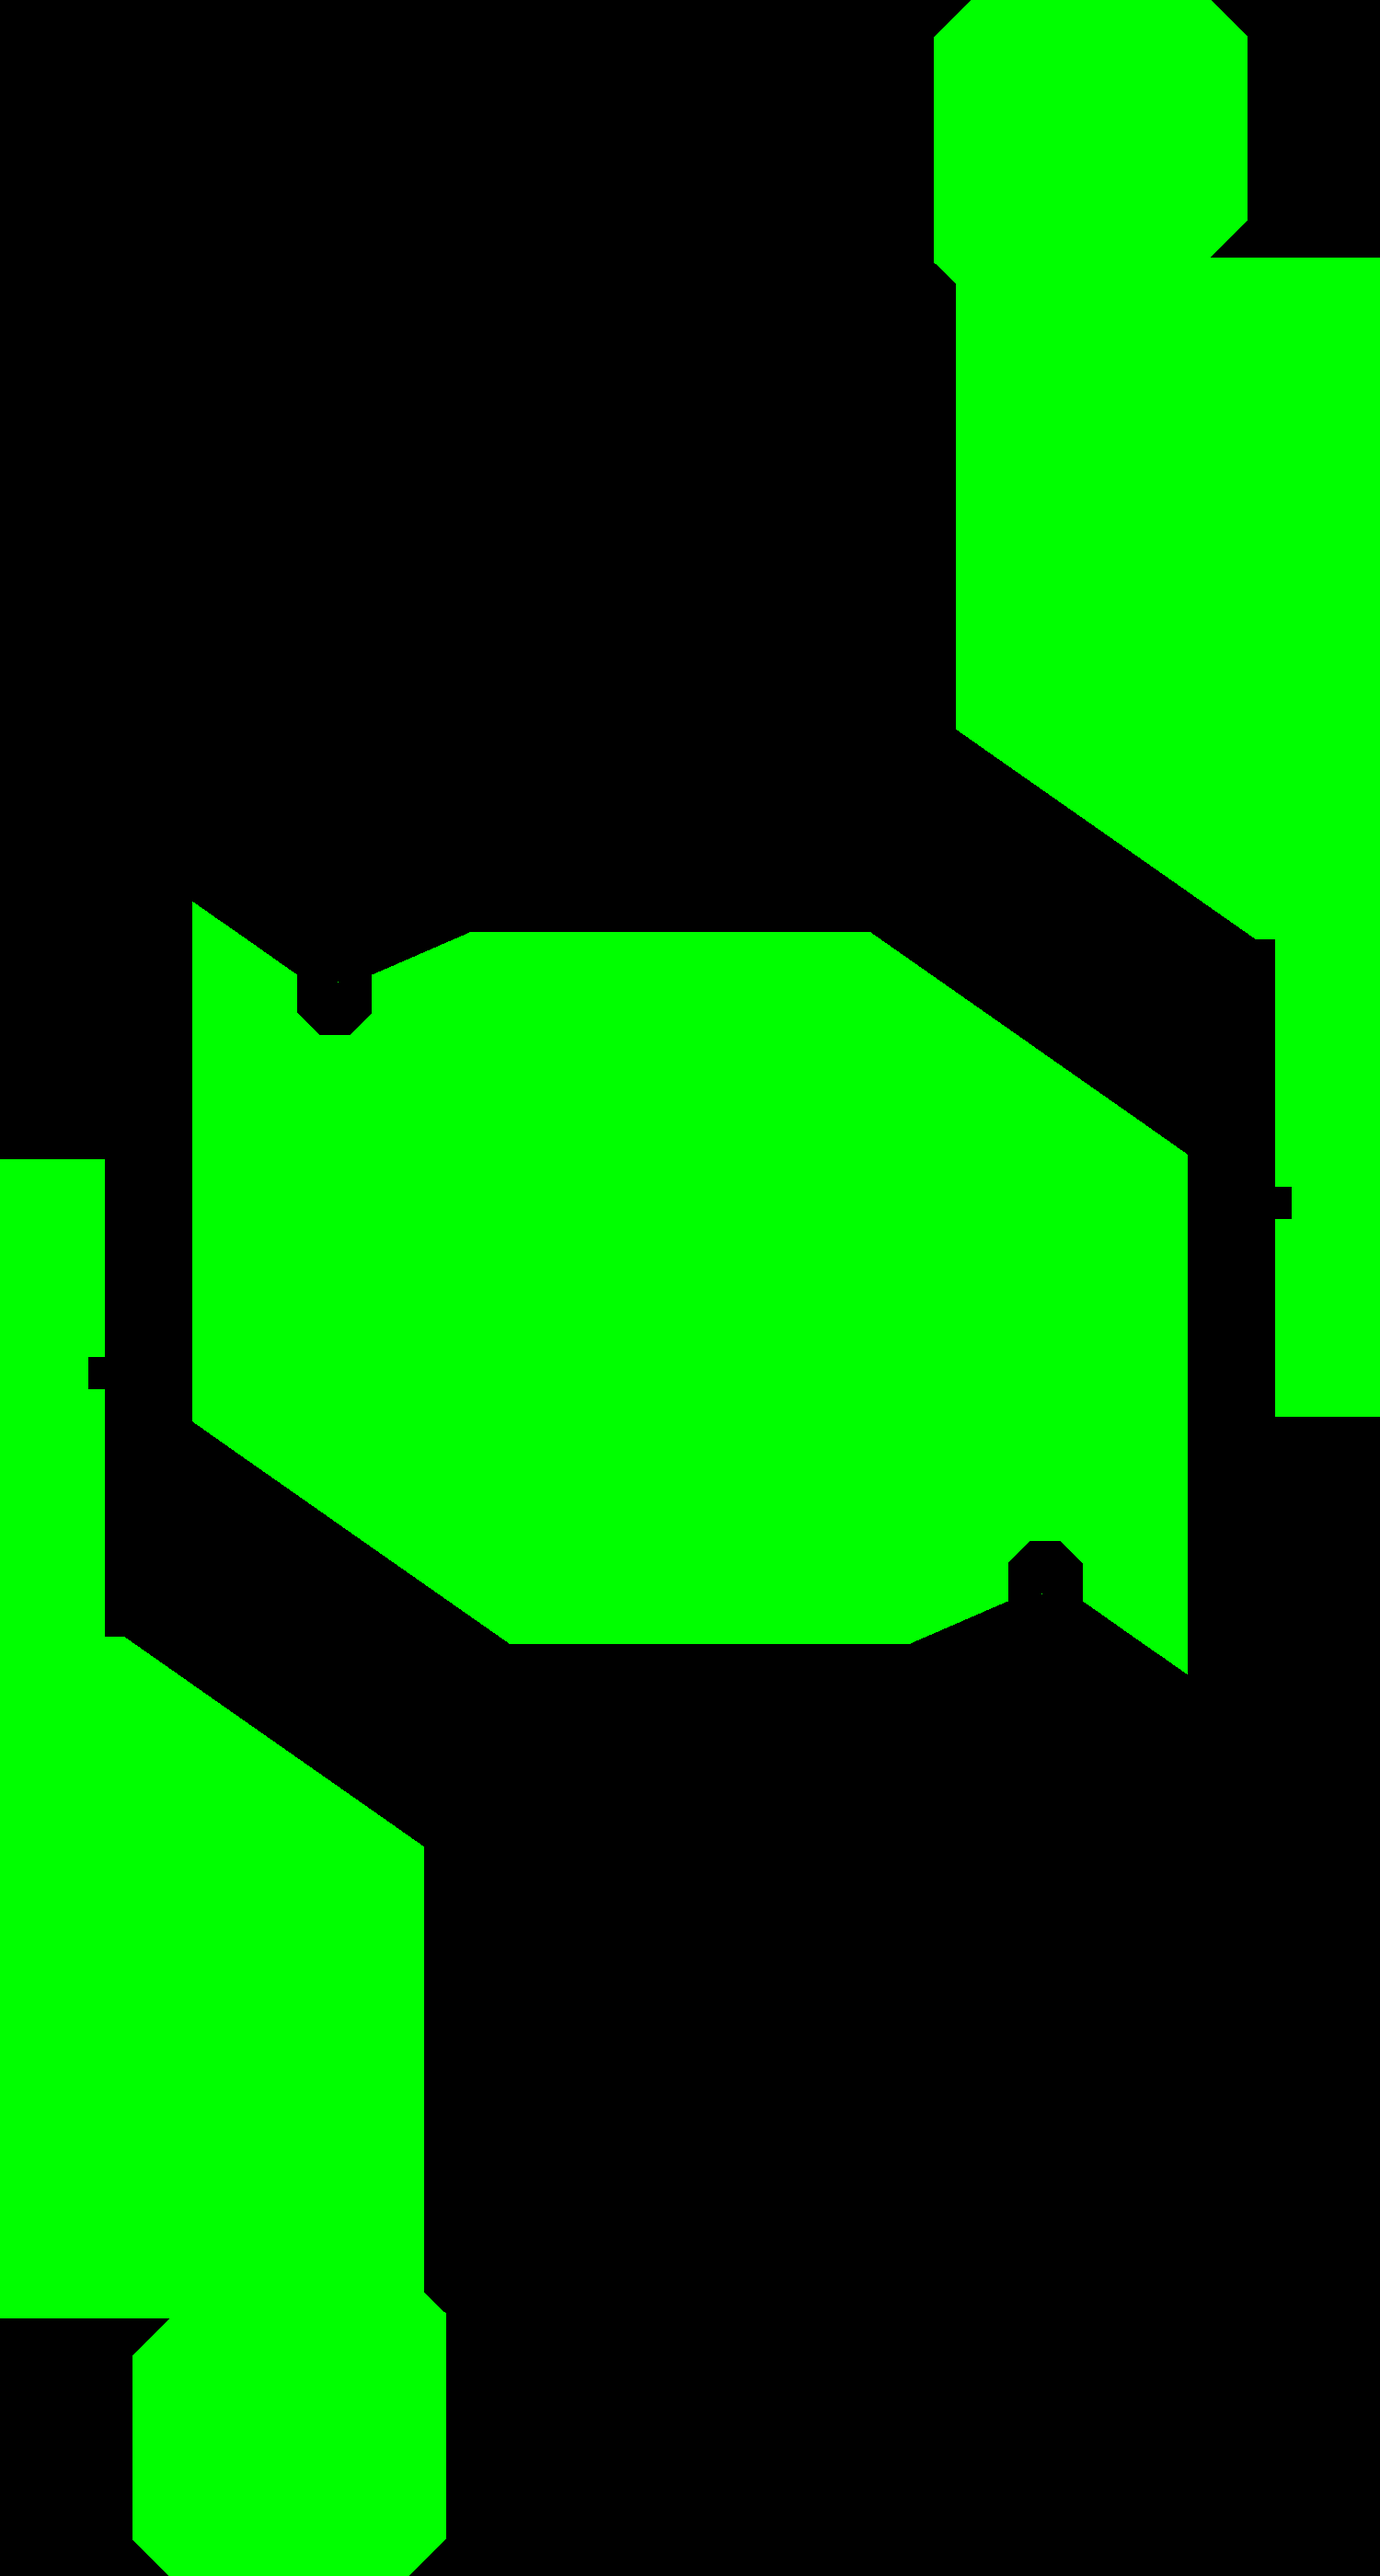
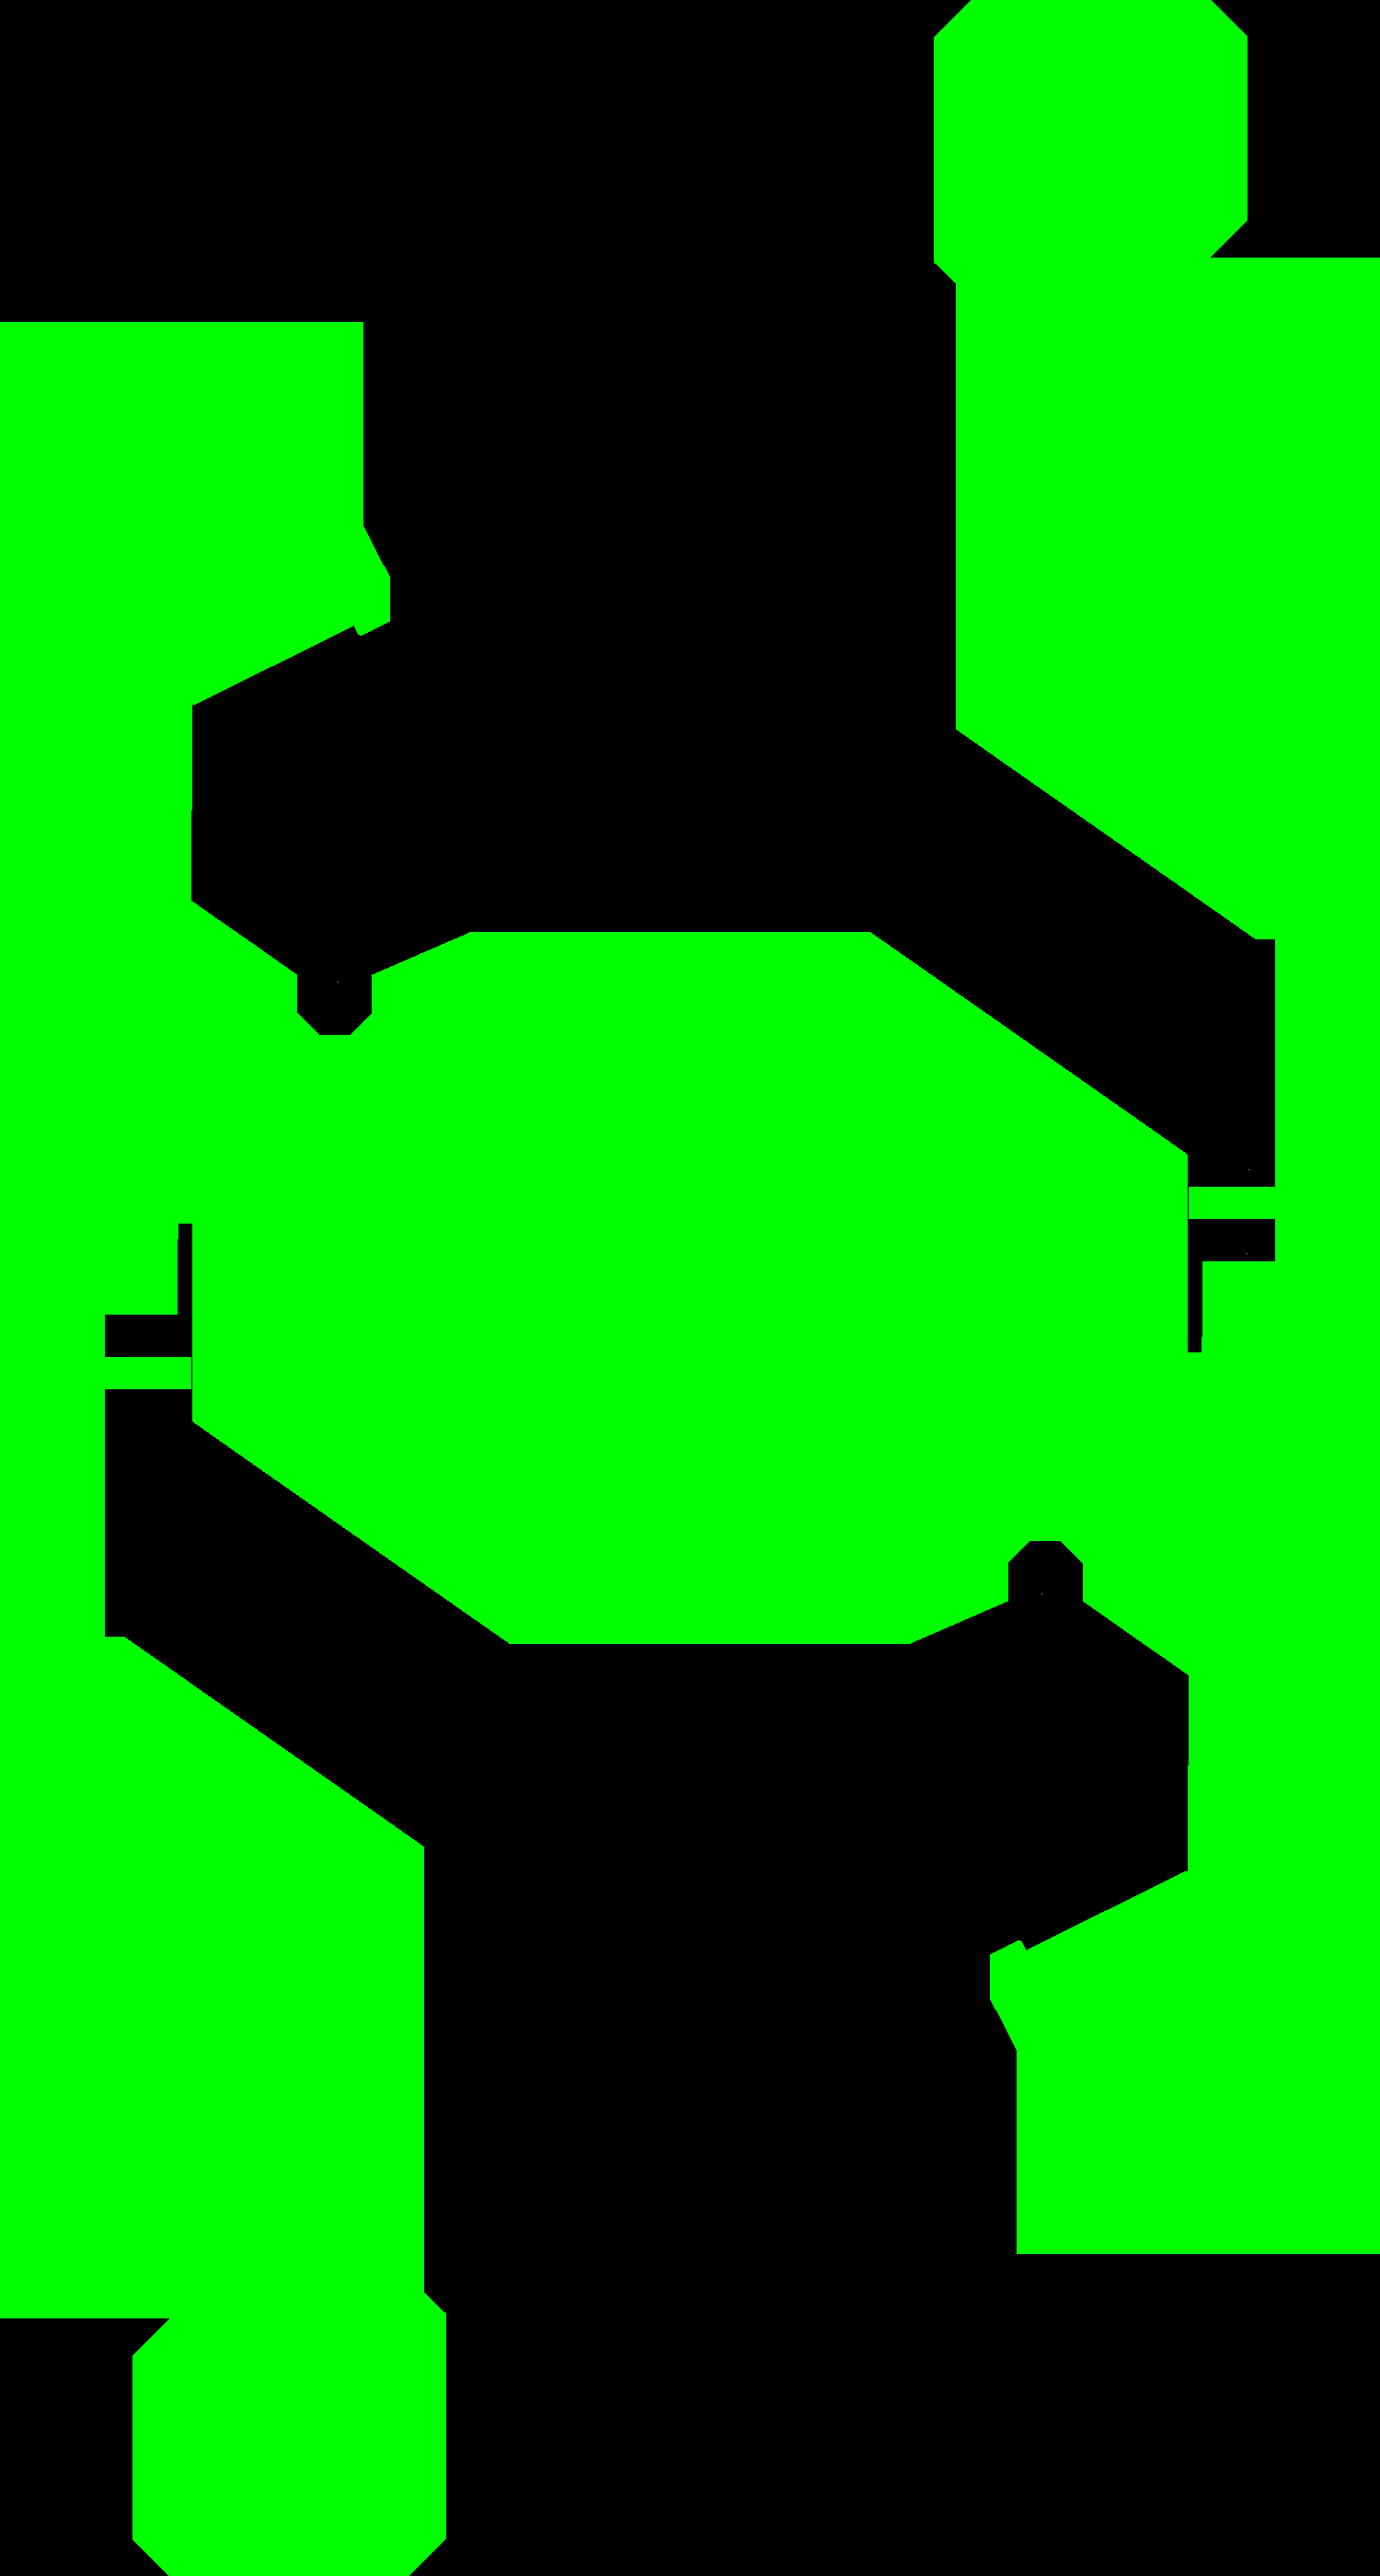
修正2027两层掩码漏标抬升公路

Changed region(s): [[0.7053, 0.435, 1.0, 0.9011], [0.0, 0.1243, 0.3067, 0.5593]]

diff --git a/tool/build_2027_two_layer_mask.py b/tool/build_2027_two_layer_mask.py
@@ -30,10 +30,12 @@ def main():
     if labels.shape != (1500, 2800):
         raise ValueError("区域标签尺寸不一致")
 
-    # mask26 uses black for ground/road and green for highland footprints.
+    # Use black for base ground and green for elevated terrain footprints.
+    # The 2027 road platform is about 200 mm above ground: the legacy
+    # "ground/road" comment does not describe this season's road geometry.
     # Fill enclosed object holes so a base/flag standing on highland cannot
     # accidentally select the ground homography. Keep the external boundaries.
-    highland = np.isin(labels, (3, 4, 5)).astype(np.uint8) * 255
+    highland = np.isin(labels, (3, 4, 5, 6)).astype(np.uint8) * 255
     contours, _ = cv2.findContours(highland, cv2.RETR_EXTERNAL,
                                    cv2.CHAIN_APPROX_SIMPLE)
     filled = np.zeros_like(highland)
@@ -66,7 +68,7 @@ def main():
         ax.imshow(pixels, interpolation="nearest")
         ax.set_title(title)
         ax.axis("off")
-    fig.suptitle("Black: M_ground (ground / road)    Green: M_height_r (highland)")
+    fig.suptitle("Black: M_ground (base ground)    Green: M_height_r (elevated terrain)")
     fig.savefig(output / "comparison.png", dpi=150)
     plt.close(fig)
 
@@ -75,14 +77,15 @@ def main():
              for name in [*masks, "overlay_blue.png", "comparison.png"]}
     write_json(output / "manifest.json", {
         "schema": "ysu.radar.two_layer_mask.v1",
-        "profile": "rmuc2027-v1.0.0-two-layer1",
+        "profile": "rmuc2027-v1.0.0-two-layer2",
         "source_sha256": SOURCE_SHA256,
         "terrain_manifest_sha256": digest(terrain / "manifest.json"),
         "display_manifest_sha256": digest(display / "manifest.json"),
         "mask26_reference_sha256": digest(old_mask),
         "encoding_rgb": {"M_ground": [0, 0, 0], "M_height_r": [0, 255, 0]},
-        "highland_region_ids": [3, 4, 5],
-        "highland_regions": ["central_highland", "trapezoid_highland", "commanding_structure"],
+        "highland_region_ids": [3, 4, 5, 6],
+        "highland_regions": ["central_highland", "trapezoid_highland", "commanding_structure", "road_structure"],
+        "road_assignment_basis": "CAD road deck about 200 mm above local base ground; include ramps in second-layer footprint",
         "boundary_policy": "union of visible highland contours; enclosed object holes filled",
         "other_regions": "black unless enclosed inside highland external contours",
         "orientations": {"map_mask27.png": "blue_bottom",

diff --git a/docs/2027-adaptation/map2027_two_layer_mask.md b/docs/2027-adaptation/map2027_two_layer_mask.md
@@ -1,6 +1,6 @@
 # 2027 黑绿两层投影掩码
 
-制作日期：2026-11-13，版本 `rmuc2027-v1.0.0-two-layer1`。按原项目 `vision/images-2026/map_mask26.jpg` 的用途制作，继续使用两层选层方式。
+制作日期：2026-11-13，版本 `rmuc2027-v1.0.0-two-layer2`。按原项目 `vision/images-2026/map_mask26.jpg` 的用途制作，继续使用两层选层方式。
 
 ## 与源代码一致的编码
 
@@ -13,7 +13,9 @@
 
 ## 黑绿范围
 
-依据已核对的 V1.0.0 CAD 区域标签，将中央高地、两侧梯形高地、两侧制高点（原标签 3、4、5）的外轮廓设为绿色。填满这些轮廓内部被旗杆、基地等遮住的孔洞，让整个高地范围统一选择第二层。地面、公路及其余未包含在高地外轮廓内的区域保留黑色，沿用源代码“地面层、公路层”的第一层约定。
+依据已核对的 V1.0.0 CAD 区域标签，将中央高地、两侧梯形高地、两侧制高点和抬升公路（原标签 3、4、5、6）的外轮廓设为绿色。填满这些轮廓内部被旗杆、基地等遮住的孔洞，让整个抬升地形范围统一选择第二层。基础地面及其余未包含在这些外轮廓内的区域保留黑色。
+
+第二版修正了第一版漏标公路的问题：旧代码“地面层、公路层”的注释不能直接作为 2027 选层依据。CAD 高度图中，用户指出的公路平台相对局部基础地面约高 200 mm；蓝方在下图像中的 `(120, 500)`、`(180, 900)`、`(180, 1200)` 像素均约为 200.07 mm。因此将两侧公路平台及其相连坡道轮廓一起归入绿色，而不是按“公路”名称直接设为黑色。上述数值来自图纸参考高度，不是现场测量值。
 
 这里的绿色是项目对第二张单应矩阵的区域选择，不表示所有高地处在同一个真实高度。高地和坡面归入两张矩阵仍是近似，需在 2027 场地重新标定并检查误差。这是投影选层图，不是相机遮挡区或规则禁区。
 
@@ -43,8 +45,8 @@
 实际验证：
 
 - 成功导出三方向 RGB PNG，颜色严格只有黑和绿；竖向尺寸与旧 mask26 同为 1500×2800。
-- 绿色 1,643,350 像素，其中填补轮廓内部结构孔洞 128,406 像素；全部原始 3、4、5 类像素都归入绿色。
-- 三方向旋转关系逐像素一致；高地外的基础地面和公路保持黑色。
+- 绿色 2,203,500 像素，其中填补轮廓内部结构孔洞 129,106 像素；全部原始 3、4、5、6 类像素都归入绿色。
+- 三方向旋转关系逐像素一致；轮廓外的基础地面保持黑色，原有高地区域保留，公路补标及对应 CAD 高度抽样检查通过。
 - 从原 `main.py` 提取并执行实际投影辅助函数，在 555 个落点验证黑区保留第一层坐标、绿区采用第二层坐标，包含图像四角和边界点。
 - 检查图片完整性、输出清单校验值、脚本编译、`git diff --check`；目视检查新旧掩码和地胶叠加对照。
 

diff --git a/README.md b/README.md
@@ -149,7 +149,7 @@
   - [x] 已保留官方俯视图地胶和标线，生成对齐 CAD 参考画布的横向及红蓝竖向显示图、可复现 SVG 和配准记录；完成原图保留、尺寸、方向与匹配覆盖检查。仅完成参考资产制作，尚未切换比赛默认地图或完成现场外参验收。
 - [ ] 更新地图遮挡掩码、盲区多边形、预测点和禁用区域，覆盖新赛季高地、隧道、机库平台、工作台、风机等结构。
   - [x] 已从 CAD 真实轮廓制作 12 类地形候选分区、坡面与结构审阅掩码，提供横向/红蓝方向、无损标签和地胶叠加预览；通过部件绑定、深度/法向一致性、版本拒绝与资产完整性检查。见 [地形候选分区记录](docs/2027-adaptation/map2027_terrain_regions.md)。相机视角遮挡、规则禁区、盲区预测点和现场验收仍未完成，未直接接入旧两层投影。
-  - [x] 已按 `mask26` 制作黑绿两层 `map_mask27.png`：地面/公路选第一层，中央/梯形高地与制高点选第二层；提供红蓝和横向版本、地胶叠加及新旧对照。无损编码、方向和原投影函数选层检查通过，见 [两层掩码说明](docs/2027-adaptation/map2027_two_layer_mask.md)。默认配置未切换，2027 两层矩阵与现场误差验收仍待完成。
+  - [x] 已按 `mask26` 制作黑绿两层 `map_mask27.png`：基础地面选第一层，中央/梯形高地、制高点及抬升公路选第二层；第二版已按 CAD 约 200 mm 的公路平台高度修正漏标。提供红蓝和横向版本、地胶叠加及新旧对照；无损编码、方向和原投影函数选层检查通过，见 [两层掩码说明](docs/2027-adaptation/map2027_two_layer_mask.md)。默认配置未切换，2027 两层矩阵与现场误差验收仍待完成。
 - [ ] 调整地图投影模型，不能将起伏地形全部当作单一平面；评估分区单应、地面高度补偿或其他适合当前相机安装条件的方案。
 - [ ] 按新赛季雷达基座/相机安装高度重新采集标定点，更新红蓝标定预设和现场标定说明；旧赛季矩阵必须明确标记为不可用于 2027。
 - [ ] 完成海康到迈德威视 MV-SUA133GC-T 的相机迁移验收：默认输入切换为 MindVision SDK，Linux 启动脚本能加载 SDK 与 Python 包；在实机上核对彩色 BGR 帧、实际分辨率、连续采集稳定性和曝光设置。保留海康/USB/测试输入作为兼容模式；不将海康 dB 增益值映射到迈德威视。

diff --git a/vision/images-2027/README.md b/vision/images-2027/README.md
@@ -39,6 +39,6 @@
 
 ## 与 mask26 一致的黑绿两层掩码
 
-`two-layer-v1.0.0/map_mask27.png` 是蓝方在下的黑绿选层图，另有红方在下和横向版本。黑色选择 `M_ground`（地面、公路），绿色选择 `M_height_r`（中央高地、梯形高地、制高点），沿用原程序两层逻辑，无需新增多类解析。
+`two-layer-v1.0.0/map_mask27.png` 是蓝方在下的黑绿选层图，另有红方在下和横向版本。黑色选择 `M_ground`（基础地面），绿色选择 `M_height_r`（中央高地、梯形高地、制高点及抬升公路），沿用原程序两层逻辑，无需新增多类解析。第二版依据 CAD 约 200 mm 的公路平台高度修正了漏标，不能直接沿用旧注释将所有公路归入基础地面。
 
 该目录中的 `comparison.png` 提供 mask26、新掩码和地胶叠加对照。方向、复现与实际验证见 [两层掩码说明](../../docs/2027-adaptation/map2027_two_layer_mask.md)。比赛默认配置未切换，仍需配套 2027 两层标定矩阵和现场核验。
